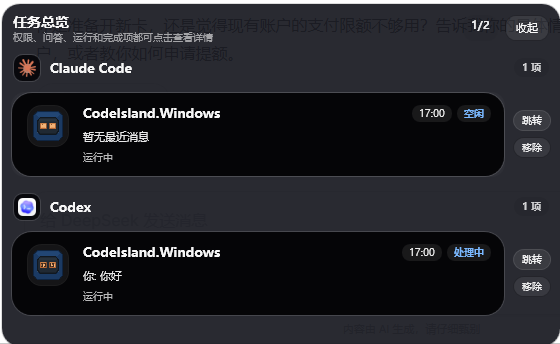
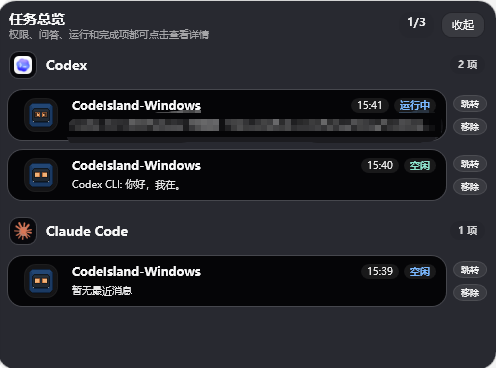
docs(readme): 修改截图

diff --git a/README.md b/README.md
@@ -22,6 +22,10 @@ Project repository: https://github.com/KelseySking/CodeIsland-Windows
   <img src="imgs/hud-expanded.png" alt="Expanded HUD screenshot" width="760" />
 </p>
 
+<p align="center">
+  <img src="imgs/Approval.png" alt="Expanded HUD screenshot" width="760" />
+</p>
+
 ## Features
 
 - **Real-time agent monitoring** — Claude Code and Codex supported end-to-end; other AI tools planned for future integration
